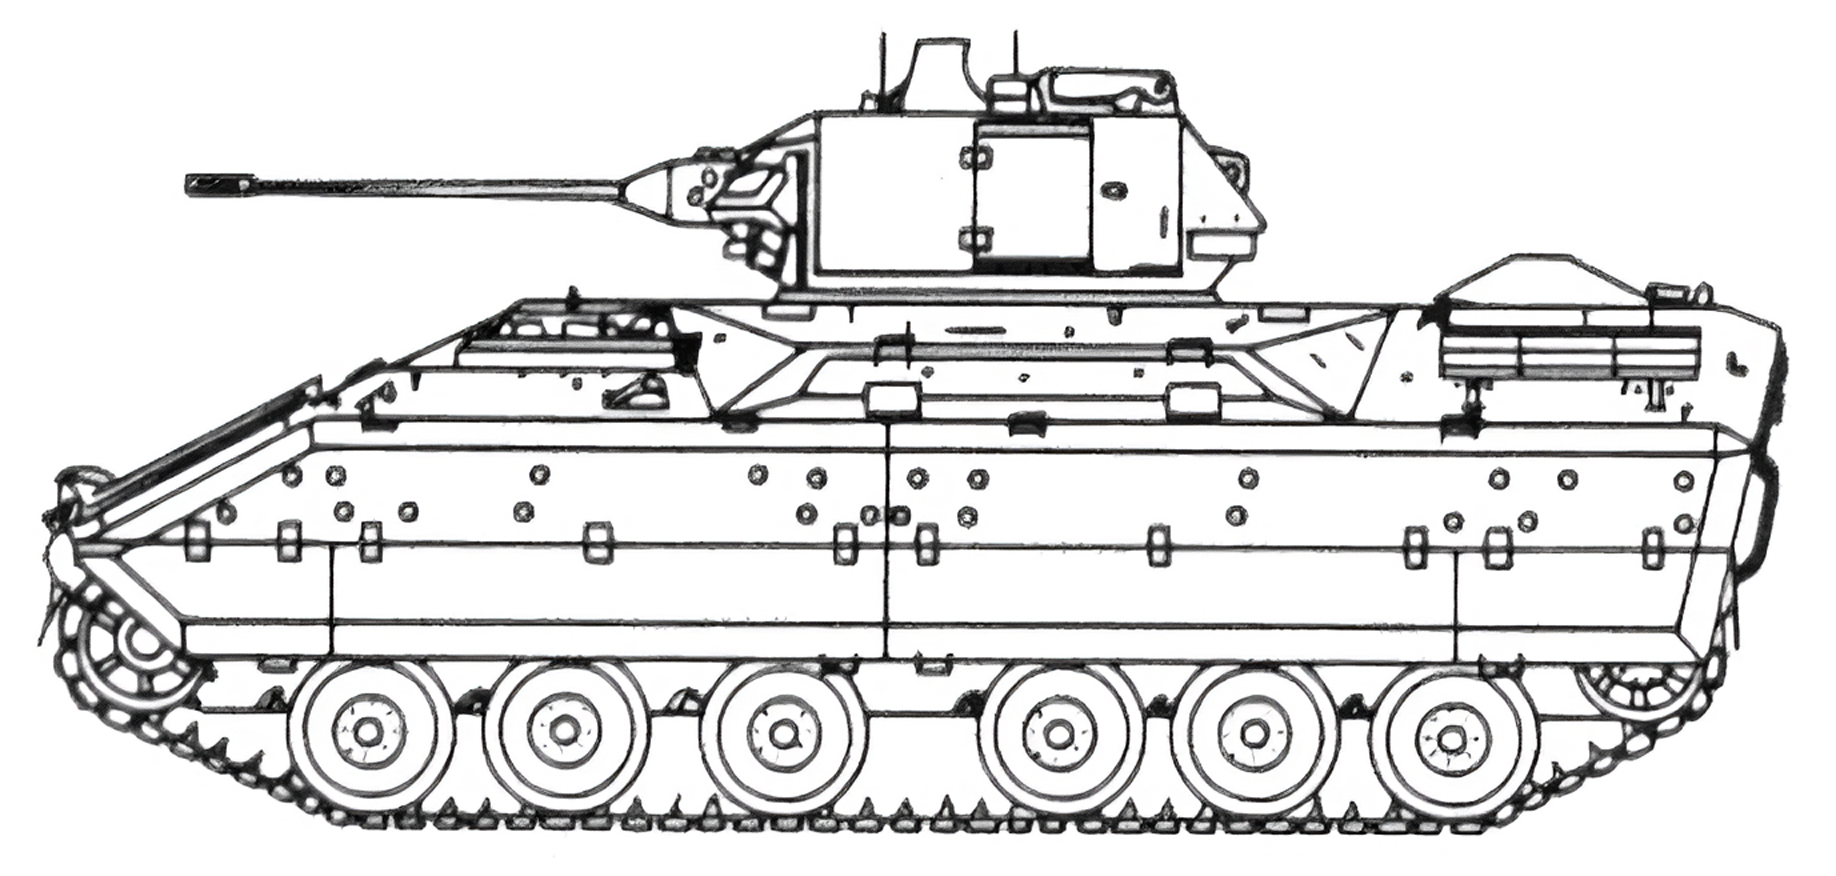
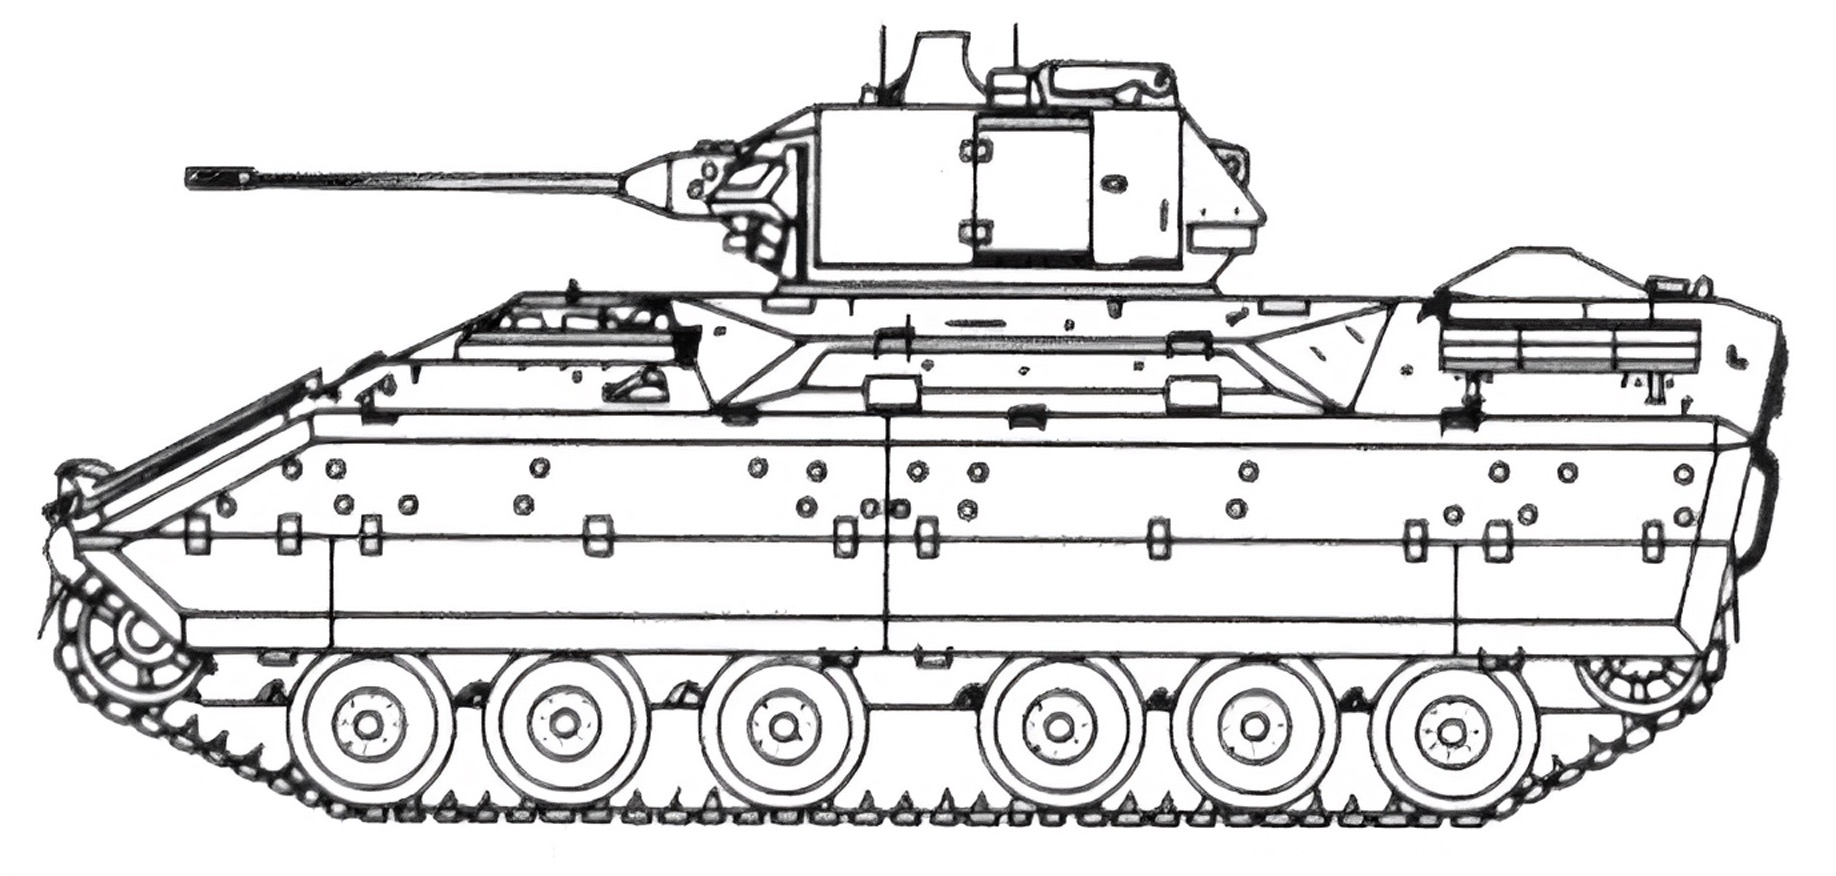
Add social links

Changed region(s): [[0.0, 0.0308, 0.9935, 0.9555], [0.8072, 0.2774, 0.8693, 0.3082]]

diff --git a/_layouts/default.html b/_layouts/default.html
@@ -20,6 +20,10 @@
       <nav>
         <a href="/">Home</a>
         <a href="/about">About</a>
+        <div>
+          <a href="https://twitter.com/Madeline_Zimm"><img src="/assets/img/twitter.svg" alt="Twitter" /></a>
+          <a href="https://www.linkedin.com/in/madeline-zimmerman"><img src="/assets/img/linkedin.svg" alt="LinkedIn" /></a>
+        </div>
       </nav>
     </header>
     <section>

diff --git a/_sass/theme.scss b/_sass/theme.scss
@@ -164,6 +164,7 @@ hr {
 
     nav {
       flex-direction: row;
+      justify-content: flex-end;
     }
 
     small {

diff --git a/about.md b/about.md
@@ -11,6 +11,6 @@ I’m interested in human conflict: what causes it, how we engage in it, and how
 <figure>
   <img alt="Bradley Fighting Vehicle" src="/assets/img/bfv.jpg" />
   <figcaption><center><small>
-    Bradley Fighting Vehicle
+    The Bradley Fighting Vehicle, whose troubled development and procurement is documented in <i>The Pentagon Wars</i>.
   </small></center></figcaption>
 </figure>
